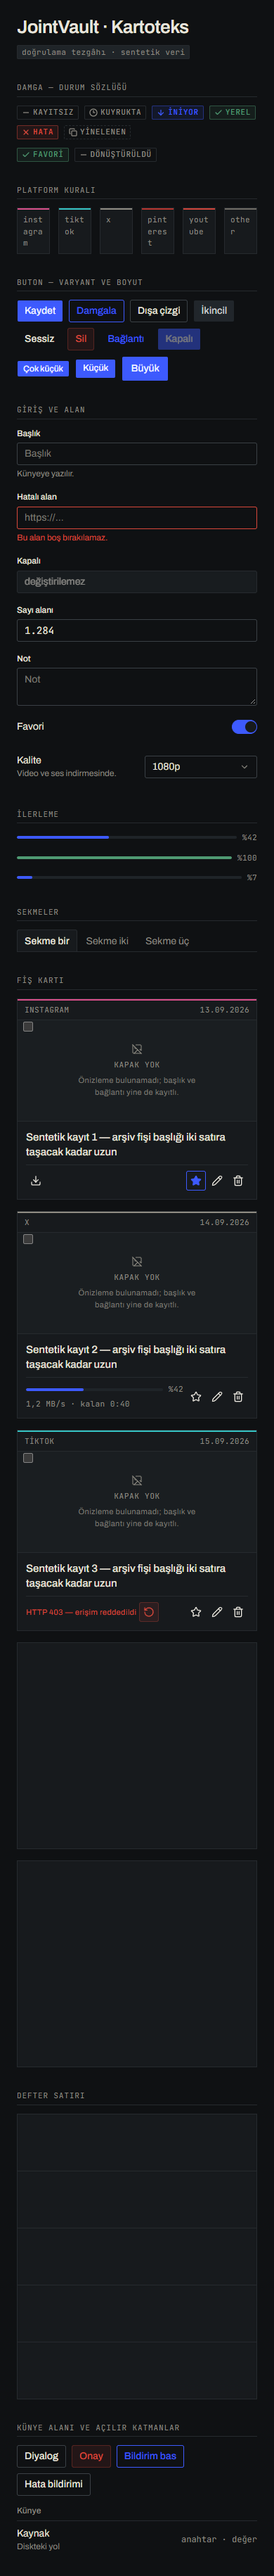
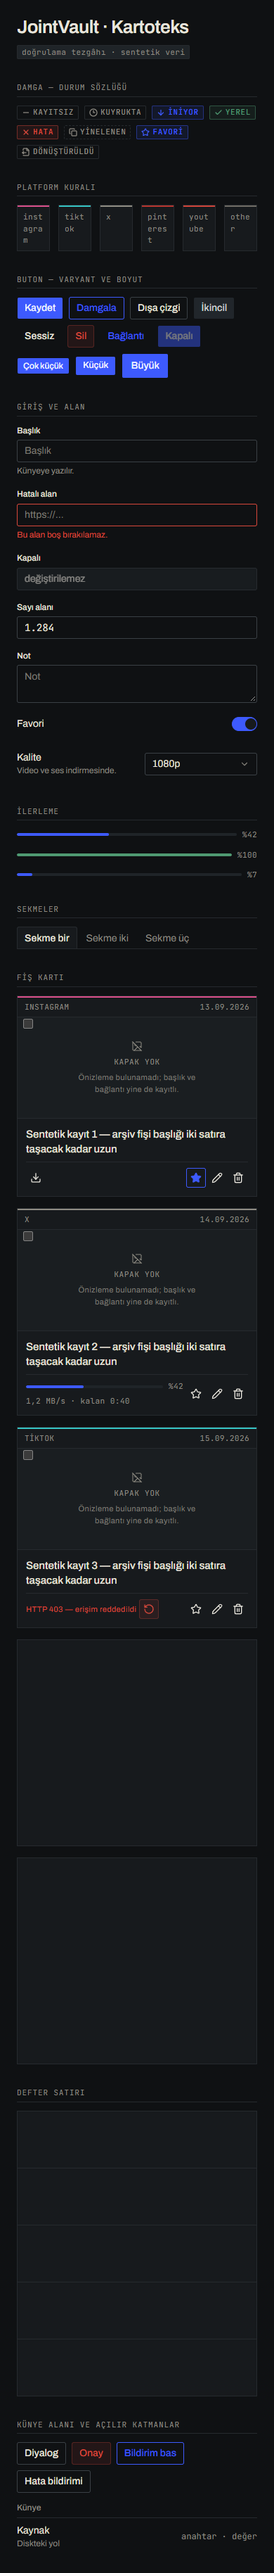
Damga sozlugu sekiz duruma tamamlandi; perfore delik vaadi kaldirildi
Kusur: DESIGN.md 277 sekiz durum sayiyordu, stamp.tsx alti tanesini kurmustu.
Eksik ikisi baska durumlarin rengiyle taklit ediliyordu:
- ItemRecord favoriyi `state="local"` ile basiyordu; yani favori, DESIGN.md 160-161'in
  yalnizca "arsive girdi" icin ayirdigi arsiv yesilini giyiyordu.
- ItemViews donusturulduyu `state="none"` ile basiyordu.
- dev/kitchen-sink de ikisini taklit ediyordu (6 durumu geziyor, diger ikisini
  sahte satirda gosteriyordu) — bu yuzden bitirme incelemesinde sozluk tam gorundu.

Duzeltme
- stamp.tsx: `favorite` ve `converted` gercek durum oldu.
  favorite -> Star, ultramarin tonlu (tek damga kurali; yesil degil).
  converted -> FileOutput, notr (bir olgu, kazanim degil; yesil giymez).
- Baslik yorumuna kural yazildi: bir durumu baska bir durumun rengiyle taklit etmek yasak.
- ItemRecord ve ItemViews gercek durumlara baglandi.
- kitchen-sink sekiz durumu geziyor; sahte satir kaldirildi.

Perfore delik (ucuncu arac) kaldirildi
- Sozlesme uc arac vaat ediyordu, ikisi kurulmustu. Dorduncu kez yaziliydi, sifir
  kodda yasiyordu: index.css basligi, DESIGN.md malzeme bolumu, yuzey sozlesmesi,
  stamp.tsx yorumu.
- Gerekce: durum tasiyan her isaret zaten damga sozlugunde yasiyor; ikinci bir isaret
  ayni seyi iki kez soylerdi (DESIGN.md 293).
- Uc temiz belgeden kaldirildi. Yuzey sozlesmesi sessizce degistirilmedi: "sonradan
  duzeltme" kaydi olarak yazildi, cunku sessizce degisen bir sozlesme kayit degildir.

Dogrulama
- tsc -b + vite build temiz.
[…]

diff --git a/jointvault/src/components/ui/stamp.tsx b/jointvault/src/components/ui/stamp.tsx
@@ -1,4 +1,4 @@
-import { ArrowDown, Check, Clock3, Copy, Minus, X } from 'lucide-react';
+import { ArrowDown, Check, Clock3, Copy, FileOutput, Minus, Star, X } from 'lucide-react';
 import { cva, type VariantProps } from 'class-variance-authority';
 import { cn } from 'cn';
 import { PLATFORM_META } from '@/lib/platform';
@@ -7,8 +7,9 @@ import { PLATFORM_META } from '@/lib/platform';
  * Damga — durum renkle değil mühürle bildirilir.
  * Kataloğun kendi sözlüğü: arşive girmiş fiş damgalanır, eksik olan işaretlenir.
  * İşaretler tek ikon ailesinden (lucide) ve tek kalınlıktan gelir; glif/emoji yok,
- * çünkü durum okunur olmalı, süslenmiş değil. `⊕ perfore delik` yalnızca durum
- * taşıdığı yerde kullanılır.
+ * çünkü durum okunur olmalı, süslenmiş değil.
+ * Sözlük sekiz durumdur ve tamamı burada yaşar: bir durumu başka bir durumun rengiyle
+ * taklit etmek yasaktır (favoriyi "yerel" yeşiliyle basmak gibi).
  */
 const stampVariants = cva(
   'inline-flex h-5 shrink-0 items-center gap-1 rounded-xs border px-1.5 font-mono text-2xs font-medium tracking-[0.06em] whitespace-nowrap uppercase',
@@ -21,6 +22,10 @@ const stampVariants = cva(
         local: 'border-state-acquired/45 bg-state-acquired/10 text-state-acquired',
         error: 'border-state-error/45 bg-state-error/10 text-state-error',
         duplicate: 'border-dashed border-border text-muted-foreground',
+        /* Favori bir arşiv durumu değil, bir işarettir: ultramarin (tek damga). */
+        favorite: 'border-primary/45 bg-primary/10 text-primary',
+        /* Dönüştürüldü bir olgudur, kazanım değil; bu yüzden yeşil giymez. */
+        converted: 'border-border text-muted-foreground',
       },
     },
     defaultVariants: { state: 'none' },
@@ -36,6 +41,8 @@ const STAMP_MARK: Record<StampState, React.ComponentType<{ className?: string; s
   local: Check,
   error: X,
   duplicate: Copy,
+  favorite: Star,
+  converted: FileOutput,
 };
 
 const STAMP_LABEL: Record<StampState, string> = {
@@ -45,6 +52,8 @@ const STAMP_LABEL: Record<StampState, string> = {
   local: 'yerel',
   error: 'hata',
   duplicate: 'yinelenen',
+  favorite: 'favori',
+  converted: 'dönüştürüldü',
 };
 
 interface StampProps extends VariantProps<typeof stampVariants> {

diff --git a/jointvault/dev/kitchen-sink.tsx b/jointvault/dev/kitchen-sink.tsx
@@ -105,15 +105,20 @@ function Harness() {
 
         <Section title="Damga — durum sözlüğü">
           <div className="flex flex-wrap items-center gap-2">
-            {(['none', 'queued', 'active', 'local', 'error', 'duplicate'] as StampState[]).map((s) => (
+            {(
+              [
+                'none',
+                'queued',
+                'active',
+                'local',
+                'error',
+                'duplicate',
+                'favorite',
+                'converted',
+              ] as StampState[]
+            ).map((s) => (
               <Stamp key={s} state={s} />
             ))}
-          </div>
-          <div className="flex flex-wrap items-center gap-2">
-            <Stamp state="local" title="Favoride">
-              favori
-            </Stamp>
-            <Stamp state="none">dönüştürüldü</Stamp>
           </div>
         </Section>
 

diff --git a/jointvault/src/index.css b/jointvault/src/index.css
@@ -3,8 +3,10 @@
 /*
  * JointVault · Kartoteks
  * Dünya: kütüphane fiş katalogları / arşiv çekmeceleri.
- * Malzeme dokunun kendisiyle değil üç araçla kurulur: sabit künye bandı + altındaki
- * hairline, ray'de sekme çentiği, yalnızca durum taşıyan perfore delik.
+ * Malzeme dokunun kendisiyle değil iki araçla kurulur: sabit künye bandı + altındaki
+ * hairline, ray'de sekme çentiği. (Üçüncü aday — "perfore delik" — kaldırıldı: durum
+ * taşıyan her işaret zaten damga sözlüğünde yaşıyor, ikinci bir işaret aynı şeyi iki
+ * kez söylerdi.)
  * Gölge yok; bölme hairline'ı ve kart kenarı var. Kesilmiş kâğıt köşesi: 2-6px.
  */
 

diff --git a/jointvault/src/components/ItemRecord.tsx b/jointvault/src/components/ItemRecord.tsx
@@ -154,7 +154,10 @@ export function ItemRecord({ item, onClose, onChanged, onPickVideo, onConvert, o
           </div>
 
           <div className="flex flex-wrap items-center gap-1.5">
-            <Stamp state={favorite ? 'local' : 'none'} title={favorite ? 'Favoride' : 'Favoride değil'}>
+            <Stamp
+              state={favorite ? 'favorite' : 'none'}
+              title={favorite ? 'Favoride' : 'Favoride değil'}
+            >
               {favorite ? 'favori' : 'favori değil'}
             </Stamp>
             <Stamp

diff --git a/jointvault/src/components/ItemViews.tsx b/jointvault/src/components/ItemViews.tsx
@@ -132,7 +132,7 @@ function DownloadControl({
     return (
       <span className="flex items-center gap-1">
         <Stamp state="local" />
-        {item.converted_path && <Stamp state="none">dönüştürüldü</Stamp>}
+        {item.converted_path && <Stamp state="converted" />}
         {item.local_path && (
           <Tooltip>
             <TooltipTrigger

diff --git a/DESIGN.md b/DESIGN.md
@@ -134,10 +134,11 @@ inen bir kuyruk, binlerce fiş. Zemin kâğıt değil grafittir (`#0f1113`); kâ
 kendisidir (`#171a1d`). Gündüz karşılığı soğuk kemik kâğıttır (`#eceae4`) — eski sıcak krem
 (`#faf7f1`) bilerek terk edildi, çünkü aynı sıcaklıkta bir zemin eski dünyayı hatırlatırdı.
 
-Malzeme hiçbir yerde doku resmiyle taklit edilmez. Kâğıt üç yapısal araçla kurulur: fişin üstünde
-**sabit yükseklikte mono künye bandı** ve altındaki hairline cetvel, rayda **çekmece sekmesi çentiği**,
-ve yalnızca durum taşıdığı yerde **perfore delik**. Süs yok: gölge yok, gradyan yok, cam yok,
-parlama yok. Derinlik yalnızca üstte duran yapraklara (açılır panel, diyalog) aittir.
+Malzeme hiçbir yerde doku resmiyle taklit edilmez. Kâğıt **iki** yapısal araçla kurulur: fişin üstünde
+**sabit yükseklikte mono künye bandı** ve altındaki hairline cetvel, rayda **çekmece sekmesi çentiği**.
+(Üçüncü aday — "perfore delik" — bu sürümde kaldırıldı: durum taşıyan her işaret zaten damga
+sözlüğünde yaşıyor, ikinci bir işaret aynı şeyi iki kez söylemek olurdu.) Süs yok: gölge yok,
+gradyan yok, cam yok, parlama yok. Derinlik yalnızca üstte duran yapraklara (açılır panel, diyalog) aittir.
 
 **Key Characteristics:**
 - Düz mürekkep disiplini: tek aksan (ultramarin damga mürekkebi), tek hata rengi (damga kırmızısı), tek arşiv yeşili.
